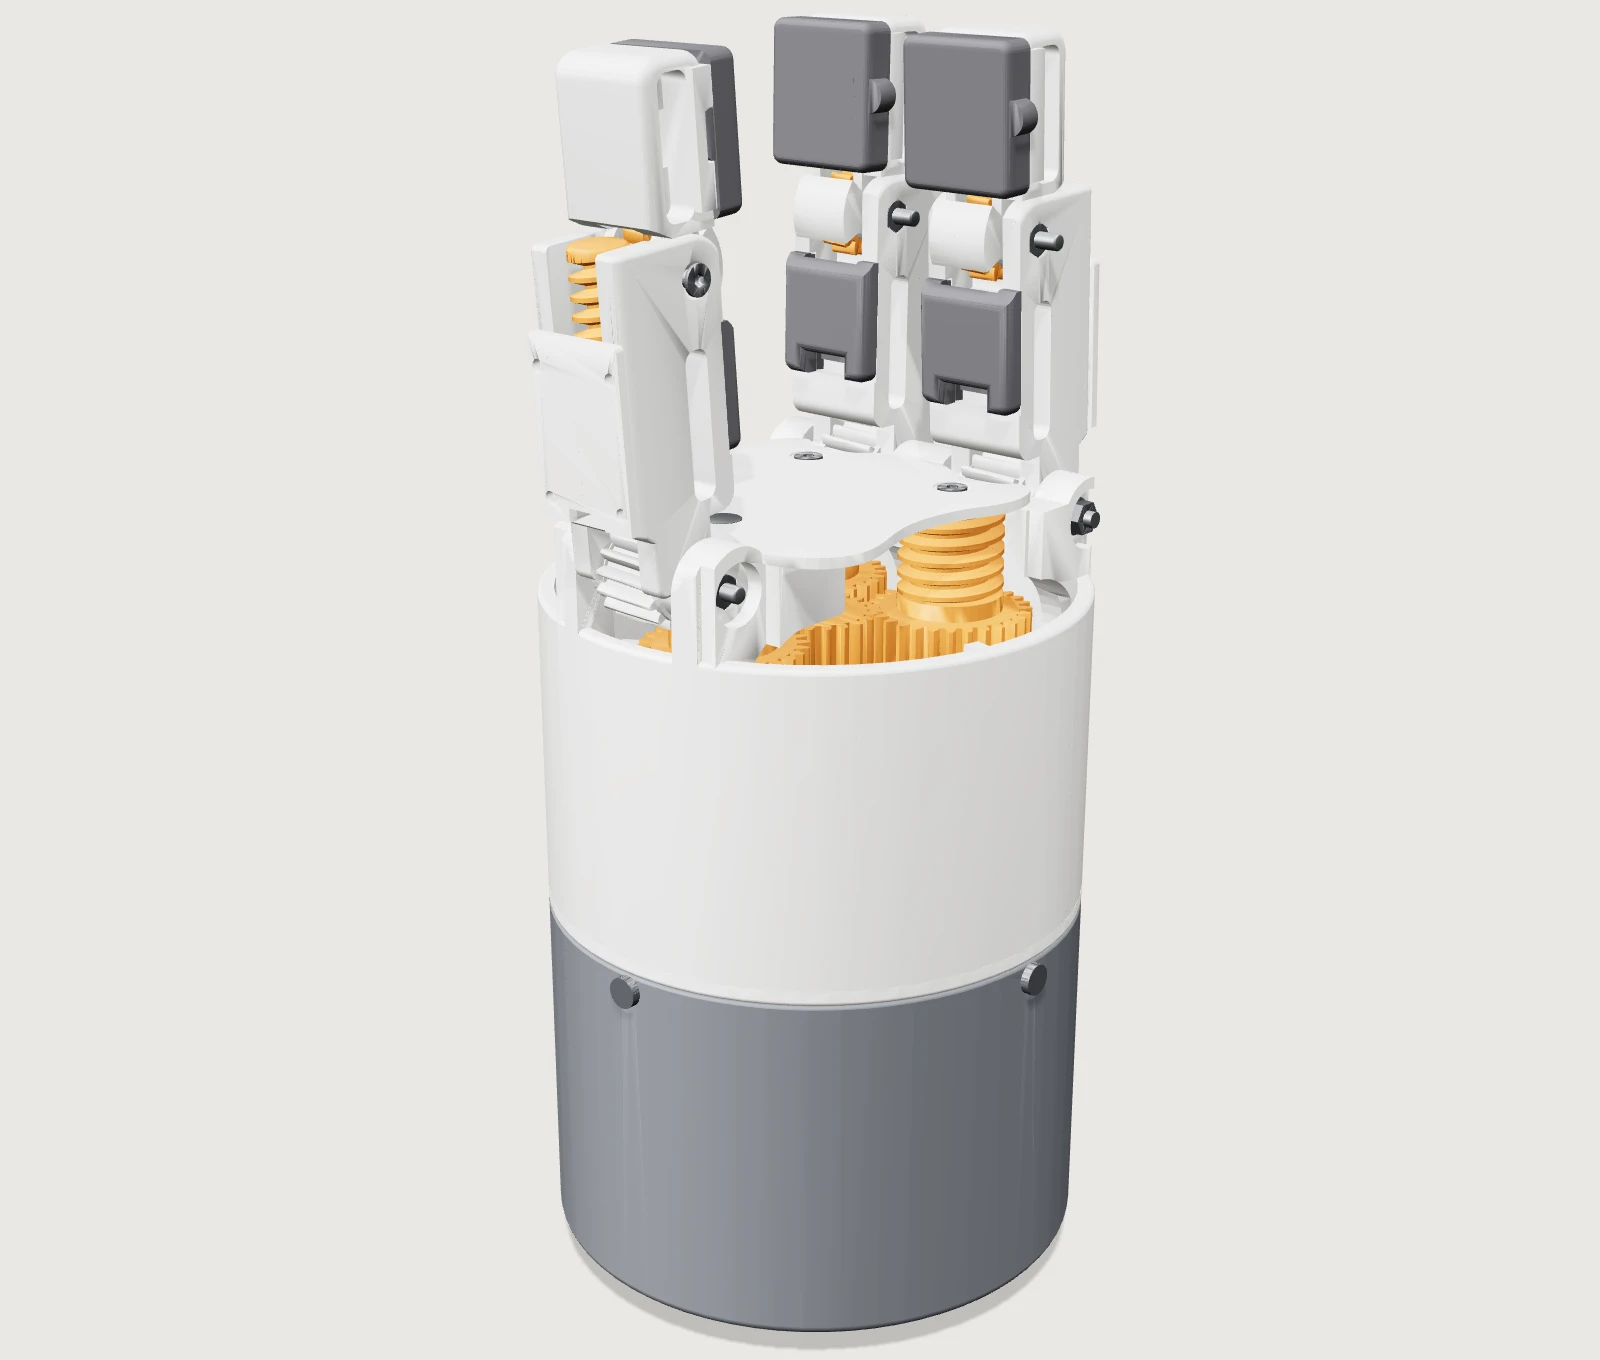
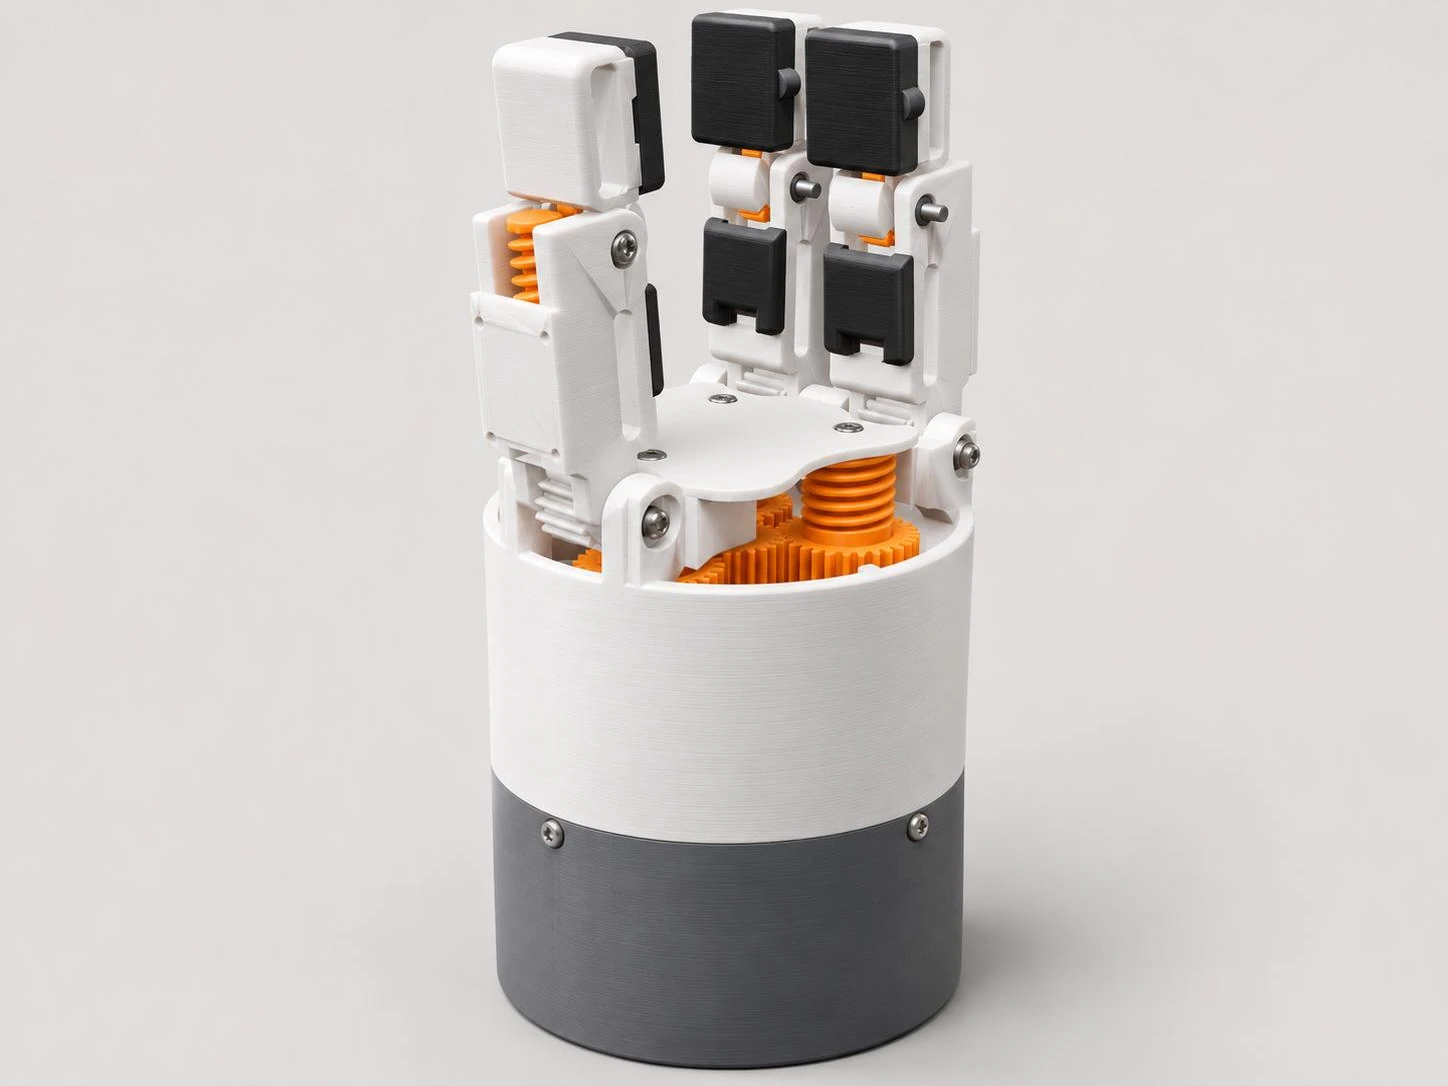
Render y foto ilustrativa generados con ChatGPT a partir del CAD V31, diagramas de sensado y de estados del firmware, imágenes para la presentación

Changed region(s): [[0.3108, 0.0, 0.8391, 1.0]]

diff --git a/index.html b/index.html
@@ -40,8 +40,8 @@
         </div>
       </div>
       <figure class="hero-fig reveal">
-        <img src="assets/img/hero_v31.webp" alt="Gripper de tres dedos V31 montado en la brida del UR5e" width="1600" height="1360">
-        <span class="tag" id="hero-tag">Render · ensamble V31</span>
+        <img src="assets/img/hero_v31.webp" alt="Render del gripper de tres dedos V31: cuerpo blanco, engranajes naranjas y yemas negras" width="1448" height="1086">
+        <span class="tag" id="hero-tag">Render generado con IA a partir del CAD V31</span>
       </figure>
     </div>
     <div class="stats">
@@ -229,6 +229,10 @@
       <article class="card block reveal"><span class="k">AX-18A</span><h3>Enlace directo con el servo</h3><p>Half-duplex por un solo cable con protocolo Dynamixel: buffer 74HCT125 de 3,3 V a 5 V y divisor que protege al ESP32. Se eliminó el shield intermedio.</p></article>
       <article class="card block reveal"><span class="k">SENSORES</span><h3>Instrumentación</h3><p>Un FSR por yema hacia el ADC del ESP32, finales de carrera de apertura y cierre, y la posición, carga y temperatura que reporta el servo.</p></article>
     </div>
+    <figure class="figure reveal" style="margin-top:20px;padding:20px;background:#f5f4f1;border-radius:18px">
+      <img src="assets/img/diagrama_sensado.svg" alt="Cadena de sensado y actuación: FSR, filtro RC, ESP32-S3, drivers, motores y servo" width="1200" height="560" loading="lazy">
+      <figcaption style="color:#57544e">Cadena sensor → filtro → ESP32-S3 → actuador. El filtro RC de 10 kΩ / 100 nF corta en ≈ 160 Hz.</figcaption>
+    </figure>
   </div>
 </section>
 
@@ -253,13 +257,17 @@
         </table>
       </div>
       <div class="reveal">
-        <div class="term"><span class="p">&gt;</span> CLOSE 4<br><span class="o">OK</span><br><span class="p">&gt;</span> ALL -20 -20 -20<br><span class="o">OK</span><br><span class="p">&gt;</span> STATUS<br><span class="o">STATE -20 -20 -20 2000 1</span><br><span class="p">&gt;</span> <span style="color:#6f6b64">… 500 ms sin órdenes</span><br><span class="o">TIMEOUT STOP</span></div>
+        <div class="term"><span class="p">&gt;</span> CLOSE 4<br><span class="o">(4, 1, 3, 1, 2000, -1)</span> <span style="color:#6f6b64"># instancia, evento, orden, activo, consigna</span><br><span class="p">&gt;</span> ALL -20 -20 -20<br><span class="o">OK</span><br><span class="p">&gt;</span> STATUS<br><span class="o">STATE -20 -20 -20 2000 1</span><br><span class="p">&gt;</span> FOO<br><span class="o">ERR COMMAND</span> <span style="color:#6f6b64"># y parada segura</span></div>
         <div class="cols-2" style="margin-top:16px;gap:12px">
           <article class="card block" style="padding:18px"><span class="k">SEGURIDAD</span><p style="margin-top:6px">Una orden inválida también detiene los motores y quita la señal del servo.</p></article>
           <article class="card block" style="padding:18px"><span class="k">TELEMETRÍA</span><p style="margin-top:6px">Cada evento y una muestra cada 500 ms se envían por Wi-Fi en JSON, con cola de 64 eventos.</p></article>
         </div>
       </div>
     </div>
+    <figure class="figure card reveal" style="margin-top:20px;padding:20px">
+      <img src="assets/img/diagrama_estados.svg" alt="Máquina de estados del firmware: arranque, espera, ejecución, activo y parada segura" width="1200" height="560" loading="lazy">
+      <figcaption>Máquina de estados del firmware del ESP32-S3. En naranja, las transiciones que llevan a la parada segura.</figcaption>
+    </figure>
   </div>
 </section>
 
@@ -270,6 +278,10 @@
       <div><p class="eyebrow"><b>10</b> Interfaz con el UR5e</p><h2>Se monta en la brida del robot.</h2></div>
       <p class="lead">El acople impreso sigue la brida de herramienta del UR5e. La energía y los datos salen del conector de herramienta, así que el gripper no necesita cables externos.</p>
     </div>
+    <figure class="figure reveal" style="margin:0 0 20px">
+      <img src="assets/img/ur5e_gripper.webp" alt="Ilustración del gripper montado en un brazo colaborativo sosteniendo un cilindro metálico" width="1672" height="941" loading="lazy" style="border-radius:18px">
+      <figcaption>Ilustración generada con IA a partir del render del CAD V31; no es una foto del prototipo.</figcaption>
+    </figure>
     <div class="tbl reveal">
       <table>
         <thead><tr><th>Parámetro del UR5e</th><th>Valor</th><th>Uso en el gripper</th></tr></thead>

diff --git a/css/site.css b/css/site.css
@@ -51,7 +51,7 @@ p { margin: 0; }
 .hero h1 em { font-style: normal; color: var(--accent); }
 .hero .lead { font-size: clamp(17px, 1.6vw, 19px); color: var(--ink-2); max-width: 46ch; }
 .hero-ctas { display: flex; gap: 12px; flex-wrap: wrap; margin-top: 28px; }
-.hero-fig { position: relative; border-radius: 22px; overflow: hidden; background: #dcdad4; aspect-ratio: 4 / 3.4; }
+.hero-fig { position: relative; border-radius: 22px; overflow: hidden; background: #e4e3df; aspect-ratio: 4 / 3; margin: 0; }
 .hero-fig img { width: 100%; height: 100%; object-fit: cover; }
 .hero-fig .tag { position: absolute; left: 14px; bottom: 14px; font: 500 11.5px var(--f-mono); background: rgba(20, 20, 20, .72); color: #f1efea; padding: 5px 9px; border-radius: 7px; backdrop-filter: blur(6px); }
 .stats { display: grid; grid-template-columns: repeat(4, minmax(0, 1fr)); margin-top: clamp(40px, 6vw, 72px); border-top: 1px solid var(--line); }
